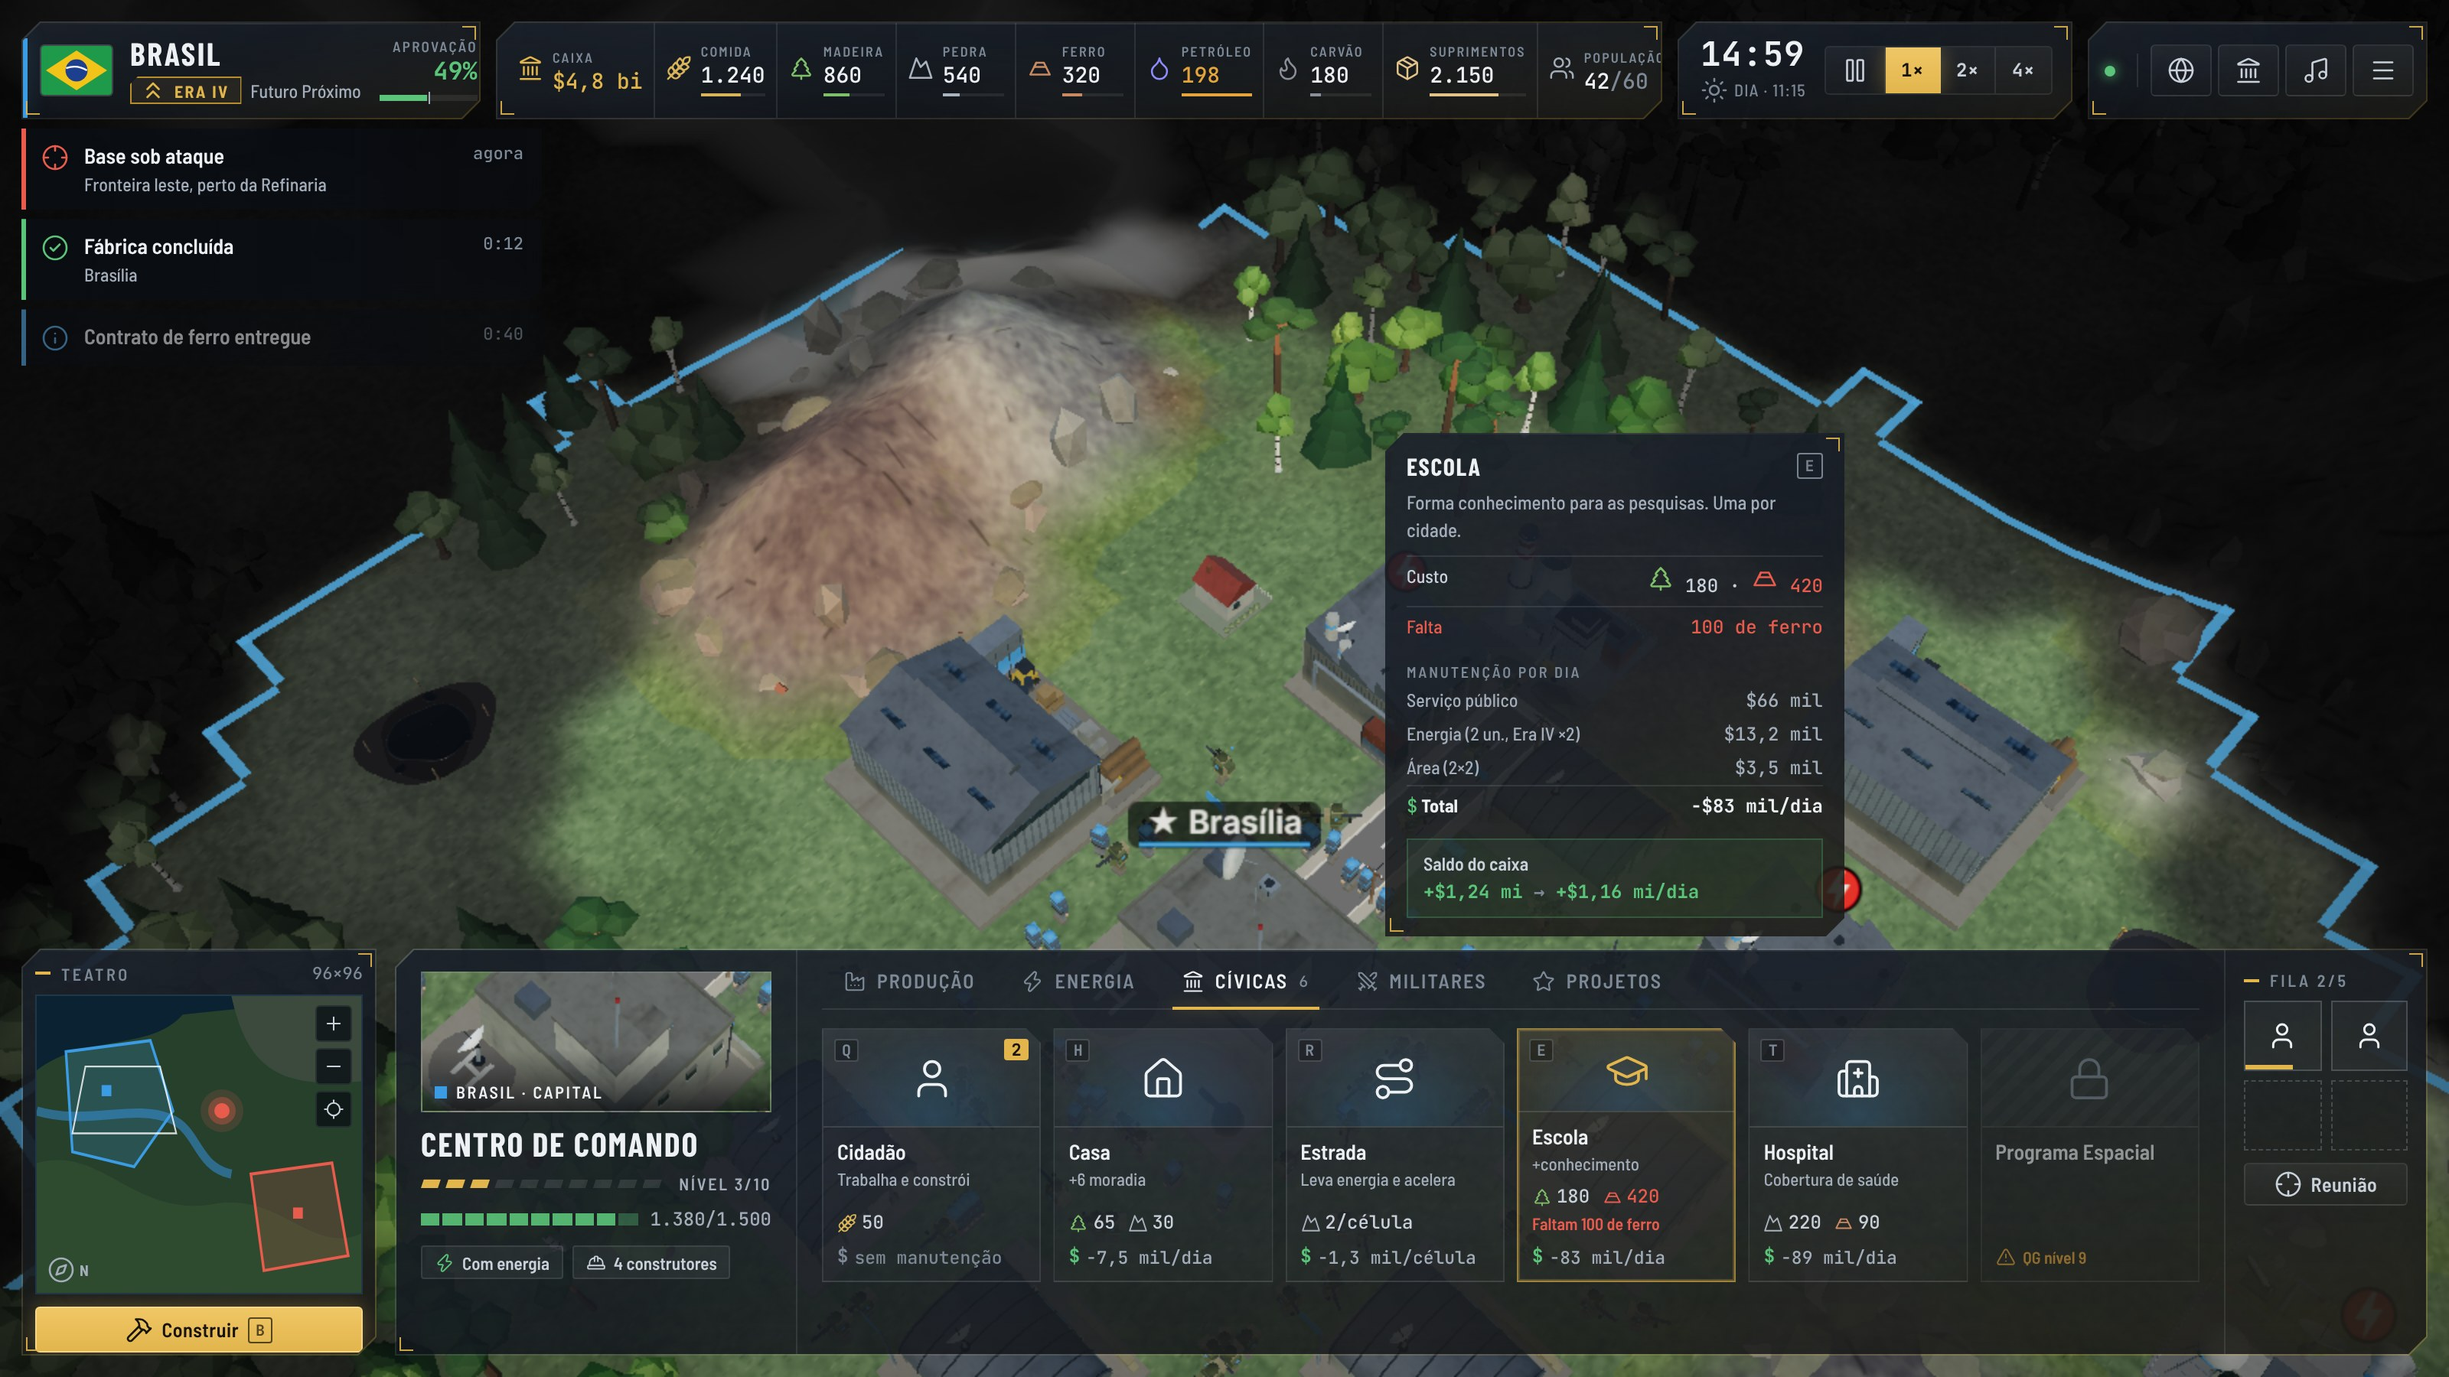
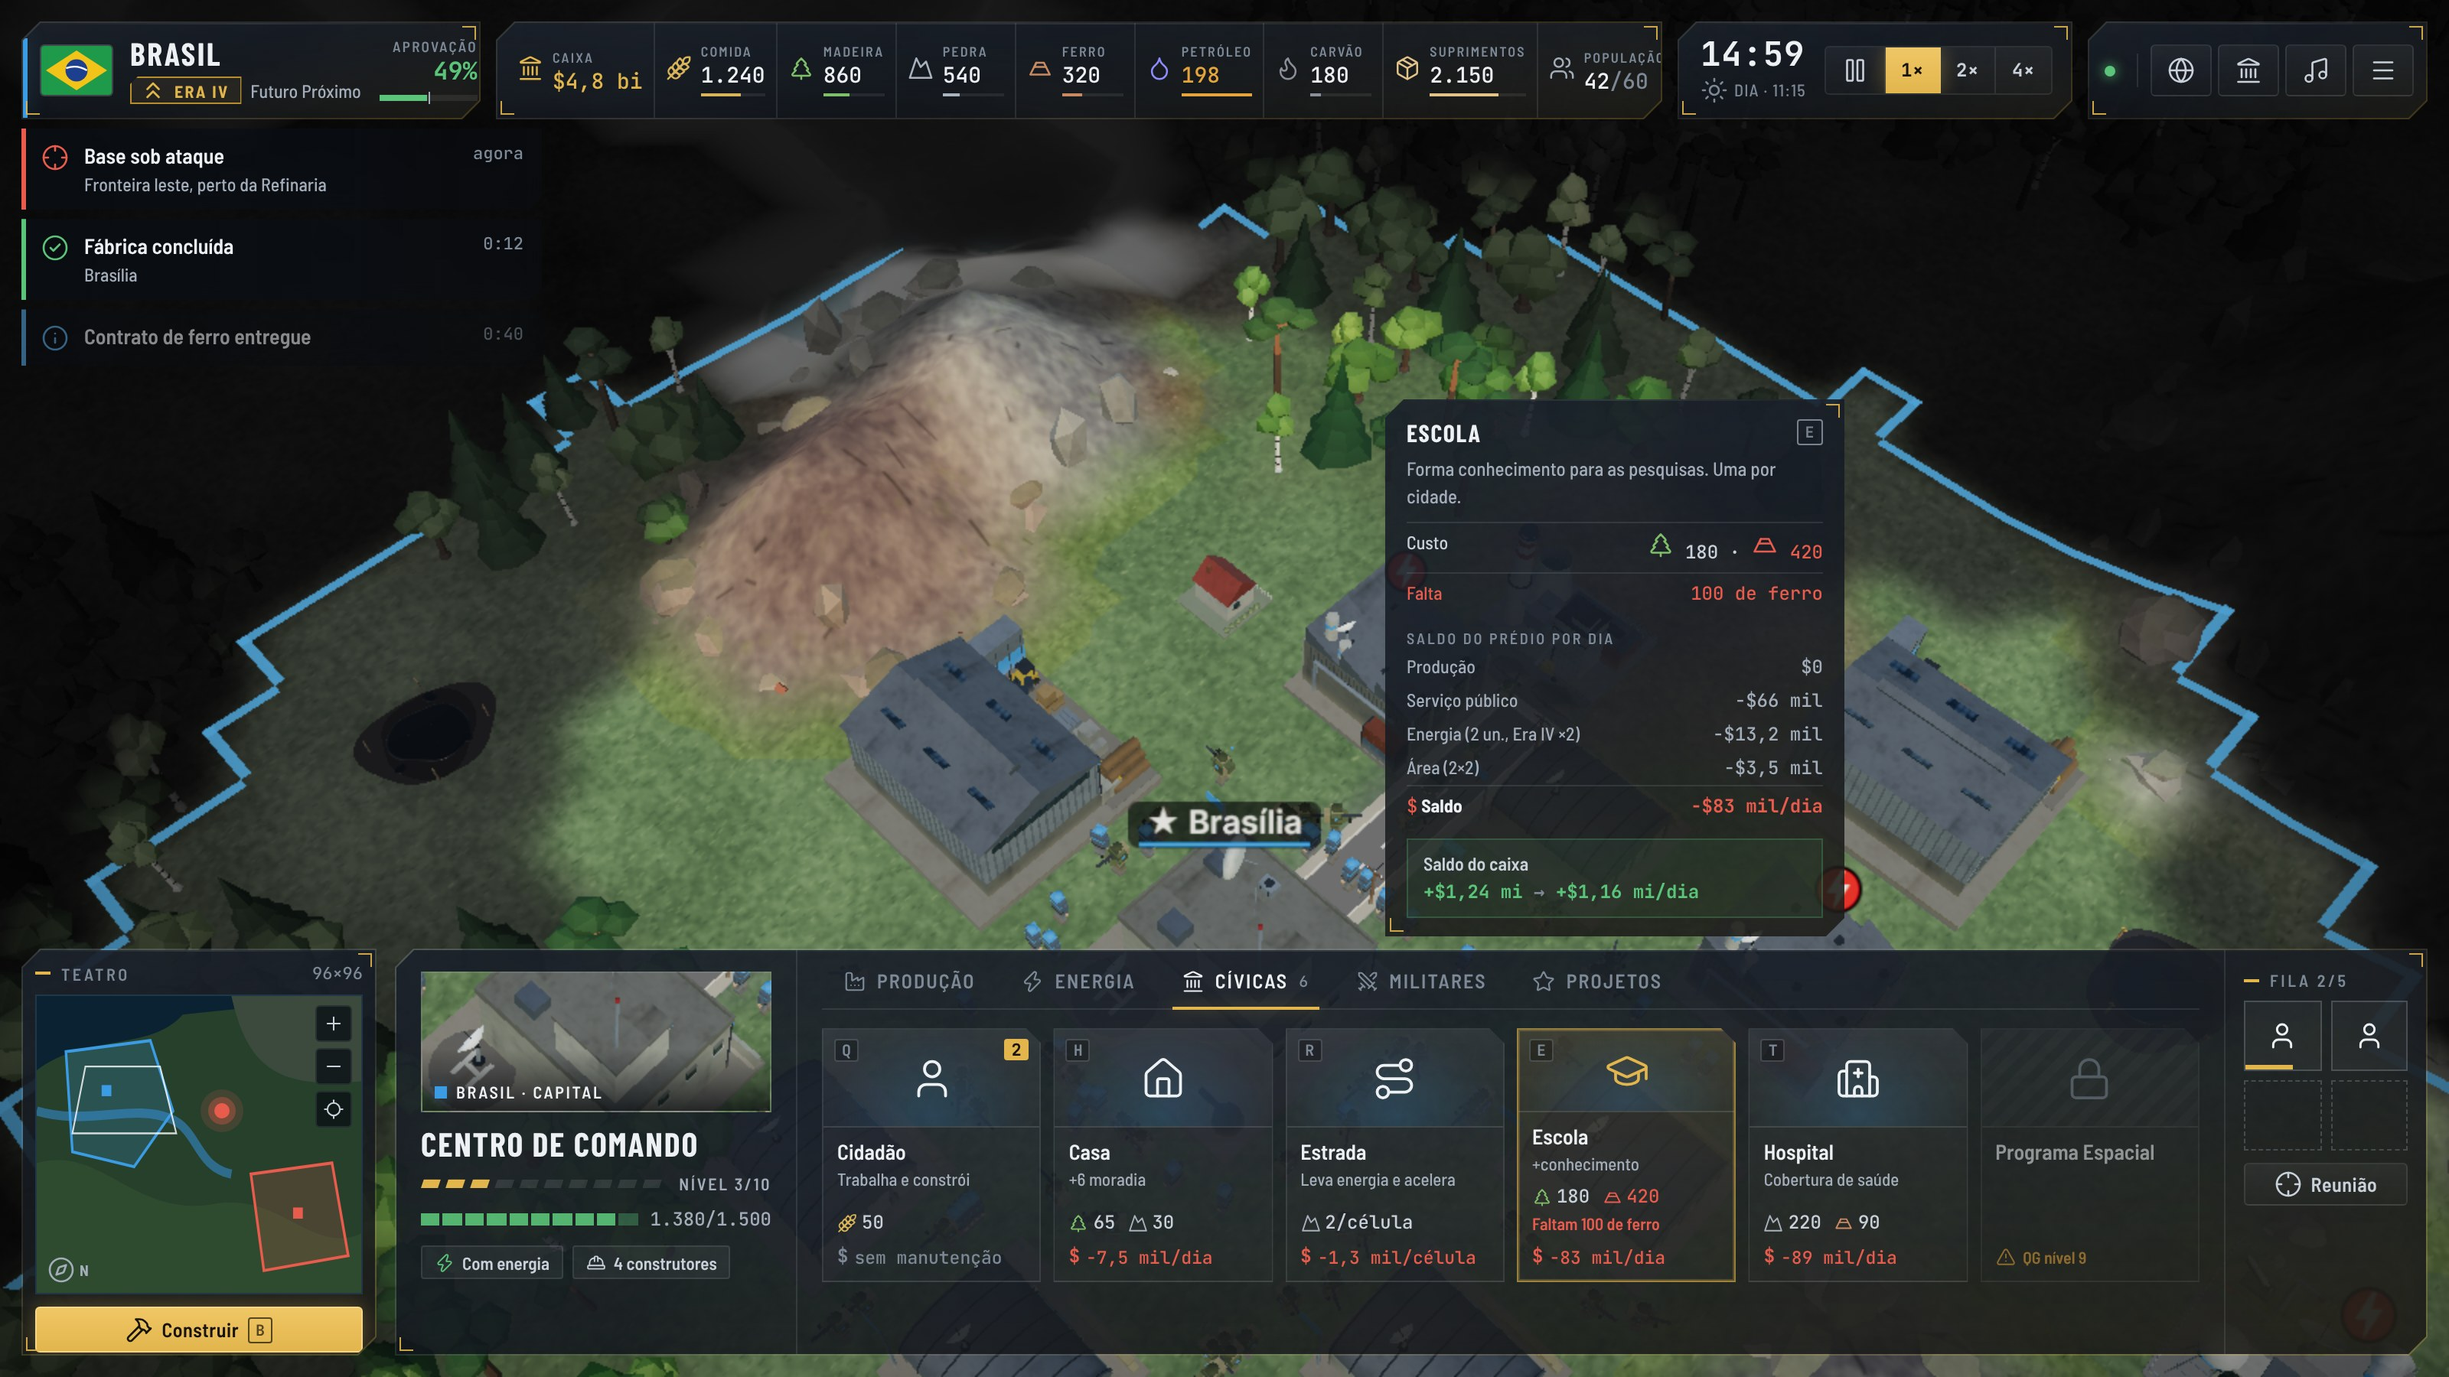
Maquete da interface: saldo líquido do prédio por dia (verde rende, vermelho custa); design aprovado
Claude-Session: https://claude.ai/code/session_015RU5brxskX44Doeef5qcRE

diff --git a/docs/ui_maquete/fonte/hud.tpl.html b/docs/ui_maquete/fonte/hud.tpl.html
@@ -107,7 +107,8 @@ html, body { width: 100%; height: 100%; overflow: hidden; }
 .card .cost span { display: inline-flex; align-items: center; gap: 3px; font: 500 12px var(--mono); color: var(--ink-200); }
 .card .cost svg.i { width: 13px; height: 13px; }
 .card .up { display: flex; align-items: center; gap: 4px; padding: 0 9px 8px; font: 500 11.5px var(--mono); color: var(--ink-300); }
-.card .up b { color: var(--ok); font: 700 12px var(--mono); }
+.card .up b { font: 700 12px var(--mono); }
+.card .up.neg { color: var(--bad); } .card .up.pos { color: var(--ok); }
 .card .up.zero { color: var(--ink-400); }
 .card .missline { font: 600 11px var(--font); color: var(--bad); padding: 0 9px 7px; margin-top: -3px; }
 .card .key { position: absolute; top: 6px; left: 7px; font: 600 10px var(--mono); color: var(--ink-400); border: 1px solid var(--line-2); padding: 0 4px; border-radius: 2px; background: rgba(0,0,0,.3); }
@@ -178,7 +179,8 @@ html, body { width: 100%; height: 100%; overflow: hidden; }
   .acts { padding: 0 10px 8px; } .tab { padding: 8px 8px 7px; font-size: 11px; } .tab span.l { display: none; } .tabs { margin-bottom: 8px; }
   .grid { grid-template-columns: repeat(4, minmax(0, 1fr)); gap: 6px; } .grid .card:nth-child(n+5) { display: none; }
   .card { height: 120px; } .card .missline, .card .eff { display: none; } .card .up { padding: 0 7px 6px; font-size: 10.5px; } .card .art { height: 42px; } .card .art svg.i { width: 22px; height: 22px; } .card .nm { font-size: 12.5px; padding: 5px 7px 0; } .card .eff { display: none; } .card .cost { padding: 4px 7px 7px; } .card .up { display: flex; align-items: center; gap: 4px; padding: 0 9px 8px; font: 500 11.5px var(--mono); color: var(--ink-300); }
-.card .up b { color: var(--ok); font: 700 12px var(--mono); }
+.card .up b { font: 700 12px var(--mono); }
+.card .up.neg { color: var(--bad); } .card .up.pos { color: var(--ok); }
 .card .up.zero { color: var(--ink-400); }
 .card .missline { font: 600 11px var(--font); color: var(--bad); padding: 0 9px 7px; margin-top: -3px; }
 .card .key { display: none; }
@@ -264,10 +266,10 @@ html, body { width: 100%; height: 100%; overflow: hidden; }
       </div>
       <div class="grid">
         <div class="card"><span class="key">Q</span><span class="qcount">2</span><div class="art">{{i:user}}</div><div class="nm">Cidadão</div><div class="eff">Trabalha e constrói</div><div class="cost"><span>{{i:wheat}}50</span></div><div class="up zero"><b style="color:var(--ink-400)">$</b>sem manutenção</div></div>
-        <div class="card"><span class="key">H</span><div class="art">{{i:house}}</div><div class="nm">Casa</div><div class="eff">+6 moradia</div><div class="cost"><span>{{i:tree-pine}}65</span><span>{{i:mountain}}30</span></div><div class="up"><b>$</b>−7,5 mil/dia</div></div>
-        <div class="card"><span class="key">R</span><div class="art">{{i:route}}</div><div class="nm">Estrada</div><div class="eff">Leva energia e acelera</div><div class="cost"><span>{{i:mountain}}2/célula</span></div><div class="up"><b>$</b>−1,3 mil/célula</div></div>
-        <div class="card short hover"><span class="key">E</span><div class="art">{{i:graduation-cap}}</div><div class="nm">Escola</div><div class="eff">+conhecimento</div><div class="cost"><span>{{i:tree-pine}}180</span><span class="miss">{{i:ingot}}420</span></div><div class="missline">Faltam 100 de ferro</div><div class="up"><b>$</b>−83 mil/dia</div></div>
-        <div class="card"><span class="key">T</span><div class="art">{{i:hospital}}</div><div class="nm">Hospital</div><div class="eff">Cobertura de saúde</div><div class="cost"><span>{{i:mountain}}220</span><span>{{i:ingot}}90</span></div><div class="up"><b>$</b>−89 mil/dia</div></div>
+        <div class="card"><span class="key">H</span><div class="art">{{i:house}}</div><div class="nm">Casa</div><div class="eff">+6 moradia</div><div class="cost"><span>{{i:tree-pine}}65</span><span>{{i:mountain}}30</span></div><div class="up neg"><b>$</b>−7,5 mil/dia</div></div>
+        <div class="card"><span class="key">R</span><div class="art">{{i:route}}</div><div class="nm">Estrada</div><div class="eff">Leva energia e acelera</div><div class="cost"><span>{{i:mountain}}2/célula</span></div><div class="up neg"><b>$</b>−1,3 mil/célula</div></div>
+        <div class="card short hover"><span class="key">E</span><div class="art">{{i:graduation-cap}}</div><div class="nm">Escola</div><div class="eff">+conhecimento</div><div class="cost"><span>{{i:tree-pine}}180</span><span class="miss">{{i:ingot}}420</span></div><div class="missline">Faltam 100 de ferro</div><div class="up neg"><b>$</b>−83 mil/dia</div></div>
+        <div class="card"><span class="key">T</span><div class="art">{{i:hospital}}</div><div class="nm">Hospital</div><div class="eff">Cobertura de saúde</div><div class="cost"><span>{{i:mountain}}220</span><span>{{i:ingot}}90</span></div><div class="up neg"><b>$</b>−89 mil/dia</div></div>
         <div class="card lock"><div class="art">{{i:lock}}</div><div class="nm">Programa Espacial</div><div class="lockinfo">{{i:triangle-alert}}QG nível 9</div></div>
       </div>
     </div>
@@ -283,11 +285,12 @@ html, body { width: 100%; height: 100%; overflow: hidden; }
     <p>Forma conhecimento para as pesquisas. Uma por cidade.</p>
     <div class="row" style="margin-top:8px"><span>Custo</span><span class="num" style="font-size:12px">{{i:tree-pine}} 180 · <span class="miss" style="color:var(--bad)">{{i:ingot}} 420</span></span></div>
     <div class="row" style="color:var(--bad)"><span>Falta</span><span class="num" style="font-size:12px">100 de ferro</span></div>
-    <div class="tsub">Manutenção por dia</div>
-    <div class="row sub"><span>Serviço público</span><span class="num">$66 mil</span></div>
-    <div class="row sub"><span>Energia (2 un., Era IV ×2)</span><span class="num">$13,2 mil</span></div>
-    <div class="row sub"><span>Área (2×2)</span><span class="num">$3,5 mil</span></div>
-    <div class="row tot"><span><b class="usd">$</b> Total</span><span class="num">−$83 mil/dia</span></div>
+    <div class="tsub">Saldo do prédio por dia</div>
+    <div class="row sub"><span>Produção</span><span class="num">$0</span></div>
+    <div class="row sub"><span>Serviço público</span><span class="num">−$66 mil</span></div>
+    <div class="row sub"><span>Energia (2 un., Era IV ×2)</span><span class="num">−$13,2 mil</span></div>
+    <div class="row sub"><span>Área (2×2)</span><span class="num">−$3,5 mil</span></div>
+    <div class="row tot"><span><b class="usd" style="color:var(--bad)">$</b> Saldo</span><span class="num" style="color:var(--bad)">−$83 mil/dia</span></div>
     <div class="bal"><span>Saldo do caixa</span><span class="num">+$1,24 mi <i>→</i> +$1,16 mi/dia</span></div>
   </div><span class="brk tr"></span><span class="brk bl"></span></div>
 

diff --git a/docs/ui_maquete/fonte/folha.tpl.html b/docs/ui_maquete/fonte/folha.tpl.html
@@ -17,7 +17,7 @@ h3 { font: 700 18px var(--title); letter-spacing: .08em; text-transform: upperca
 .type span.l { width: 120px; font: 500 11px var(--mono); color: var(--ink-400); flex: none; }
 .row { display: flex; gap: 10px; align-items: center; flex-wrap: wrap; }
 .st { font: 500 11px var(--mono); color: var(--ink-400); text-align: center; margin-top: 6px; }
-.cards { display: grid; grid-template-columns: repeat(4, 1fr); gap: 10px; }
+.cards { display: grid; grid-template-columns: repeat(5, 1fr); gap: 10px; }
 .card { position: relative; height: 172px; display: flex; flex-direction: column; background: linear-gradient(180deg, rgba(255,255,255,.05), rgba(255,255,255,.015)); border: 1px solid var(--line); clip-path: polygon(0 0, calc(100% - 10px) 0, 100% 10px, 100% 100%, 0 100%); }
 .card .art { height: 64px; display: grid; place-items: center; background: radial-gradient(ellipse at 50% 90%, rgba(59,155,227,.20), transparent 70%); border-bottom: 1px solid var(--line); }
 .card .art svg.i { width: 30px; height: 30px; stroke-width: 1.5; }
@@ -26,7 +26,7 @@ h3 { font: 700 18px var(--title); letter-spacing: .08em; text-transform: upperca
 .card.hover { border-color: rgba(226,181,77,.6); background: linear-gradient(180deg, rgba(226,181,77,.12), rgba(255,255,255,.02)); } .card.hover .art { color: var(--brass); }
 .card .miss { color: var(--bad); } .card.lock { opacity: .55; } .card.lock .art { background: repeating-linear-gradient(135deg, rgba(255,255,255,.03) 0 6px, transparent 6px 12px); color: var(--ink-400); }
 .card .li { display: flex; gap: 5px; align-items: center; font: 600 11px var(--font); color: var(--warn); padding: 0 9px 9px; margin-top: auto; } .card .li svg.i { width: 13px; height: 13px; }
-.card .up { display: flex; gap: 4px; align-items: center; padding: 0 9px 8px; font: 500 11.5px var(--mono); color: var(--ink-300); } .card .up b { color: var(--ok); font: 700 12px var(--mono); }
+.card .up { display: flex; gap: 4px; align-items: center; padding: 0 9px 8px; font: 500 11.5px var(--mono); color: var(--ink-300); } .card .up b { font: 700 12px var(--mono); } .card .up.neg { color: var(--bad); } .card .up.pos { color: var(--ok); }
 .card .ml { font: 600 11px var(--font); color: var(--bad); padding: 0 9px 6px; }
 .res { display: grid; grid-template-columns: repeat(7, 1fr); gap: 8px; margin-bottom: 12px; } .res div { display: flex; flex-direction: column; align-items: center; gap: 6px; padding: 10px 0 8px; border: 1px solid var(--line); background: rgba(255,255,255,.03); font: 600 12px var(--font); color: var(--ink-200); } .res svg.i { width: 24px; height: 24px; }
 .card .q { position: absolute; right: 7px; top: 6px; font: 700 11px var(--mono); color: #17130a; background: var(--brass); padding: 0 5px; }
@@ -94,11 +94,12 @@ h3 { font: 700 18px var(--title); letter-spacing: .08em; text-transform: upperca
     <p class="note" style="margin-top:14px">Área de toque de 34–40 px. Todo botão de ícone tem dica com o nome e a tecla.</p>
   </div><span class="brk tr"></span><span class="brk bl"></span></div>
 
-  <div class="frame box"><div class="in"><h3>Cartões de ação — os quatro estados · <span style="color:var(--ok)">$</span> manutenção por dia</h3>
+  <div class="frame box"><div class="in"><h3>Cartões de ação — estados e saldo por dia (<span style="color:var(--ok)">$ verde</span> rende · <span style="color:var(--bad)">$ vermelho</span> custa)</h3>
     <div class="cards">
-      <div><div class="card"><div class="art">{{i:house}}</div><div class="nm">Casa</div><div class="cost"><span>{{i:tree-pine}}65</span><span>{{i:mountain}}30</span></div><div class="up"><b>$</b>−7,5 mil/dia</div></div><div class="st">disponível</div></div>
-      <div><div class="card hover"><div class="art">{{i:house}}</div><div class="nm">Casa</div><div class="cost"><span>{{i:tree-pine}}65</span><span>{{i:mountain}}30</span></div><div class="up"><b>$</b>−7,5 mil/dia</div></div><div class="st">foco (mostra a dica)</div></div>
-      <div><div class="card"><div class="art">{{i:graduation-cap}}</div><div class="nm">Escola</div><div class="cost"><span>{{i:tree-pine}}180</span><span class="miss">{{i:ingot}}420</span></div><div class="ml">Faltam 100 de ferro</div><div class="up"><b>$</b>−83 mil/dia</div></div><div class="st">falta recurso (diz quanto falta)</div></div>
+      <div><div class="card"><div class="art">{{i:house}}</div><div class="nm">Casa</div><div class="cost"><span>{{i:tree-pine}}65</span><span>{{i:mountain}}30</span></div><div class="up neg"><b>$</b>−7,5 mil/dia</div></div><div class="st">disponível</div></div>
+      <div><div class="card hover"><div class="art">{{i:house}}</div><div class="nm">Casa</div><div class="cost"><span>{{i:tree-pine}}65</span><span>{{i:mountain}}30</span></div><div class="up neg"><b>$</b>−7,5 mil/dia</div></div><div class="st">foco (mostra a dica)</div></div>
+      <div><div class="card"><div class="art">{{i:graduation-cap}}</div><div class="nm">Escola</div><div class="cost"><span>{{i:tree-pine}}180</span><span class="miss">{{i:ingot}}420</span></div><div class="ml">Faltam 100 de ferro</div><div class="up neg"><b>$</b>−83 mil/dia</div></div><div class="st">falta recurso (diz quanto falta)</div></div>
+      <div><div class="card"><div class="art">{{i:wheat}}</div><div class="nm">Fazenda</div><div class="cost"><span>{{i:tree-pine}}90</span><span>{{i:mountain}}40</span></div><div class="up pos"><b>$</b>+21 mil/dia</div></div><div class="st">produtor: rende mais do que custa</div></div>
       <div><div class="card lock"><div class="art">{{i:lock}}</div><div class="nm">Programa Espacial</div><div class="li">{{i:triangle-alert}}QG nível 9</div></div><div class="st">bloqueado (diz o que pede)</div></div>
     </div>
   </div><span class="brk tr"></span><span class="brk bl"></span></div>

diff --git a/docs/ui_maquete/README.md b/docs/ui_maquete/README.md
@@ -16,7 +16,9 @@ ISC) no lugar dos emojis; fontes livres (Barlow Condensed / Barlow Semi Condense
 **Revisão de 05/11:** o ferro virou lingote (a bigorna não era reconhecida) e cada recurso tem a sua cor também nos
 custos; o cartão diz quanto falta ("Faltam 100 de ferro") e mostra a manutenção por dia com o $ verde; a dica detalha
 a manutenção (serviço público, energia, área, como no caixa do país: `shared/strategic/treasury.ts`) e o saldo do
-caixa antes → depois de construir. Valores da maquete: país com PIB de ~US$ 2,2 tri na Era IV (energia ×2).
+caixa antes → depois de construir. **Regra aprovada (05/11):** o cartão mostra o saldo líquido do prédio por dia
+(produção que entra no caixa menos manutenção, serviço e energia): verde se positivo, vermelho se negativo (ex.: Fazenda
++$21 mil/dia, Escola −$83 mil/dia). Design aprovado pelo responsável em 05/11. Valores da maquete: país com PIB de ~US$ 2,2 tri na Era IV (energia ×2).
 
 O fundo é uma cena real do jogo (Sandbox) capturada sem o HUD. Para refazer as imagens:
 
